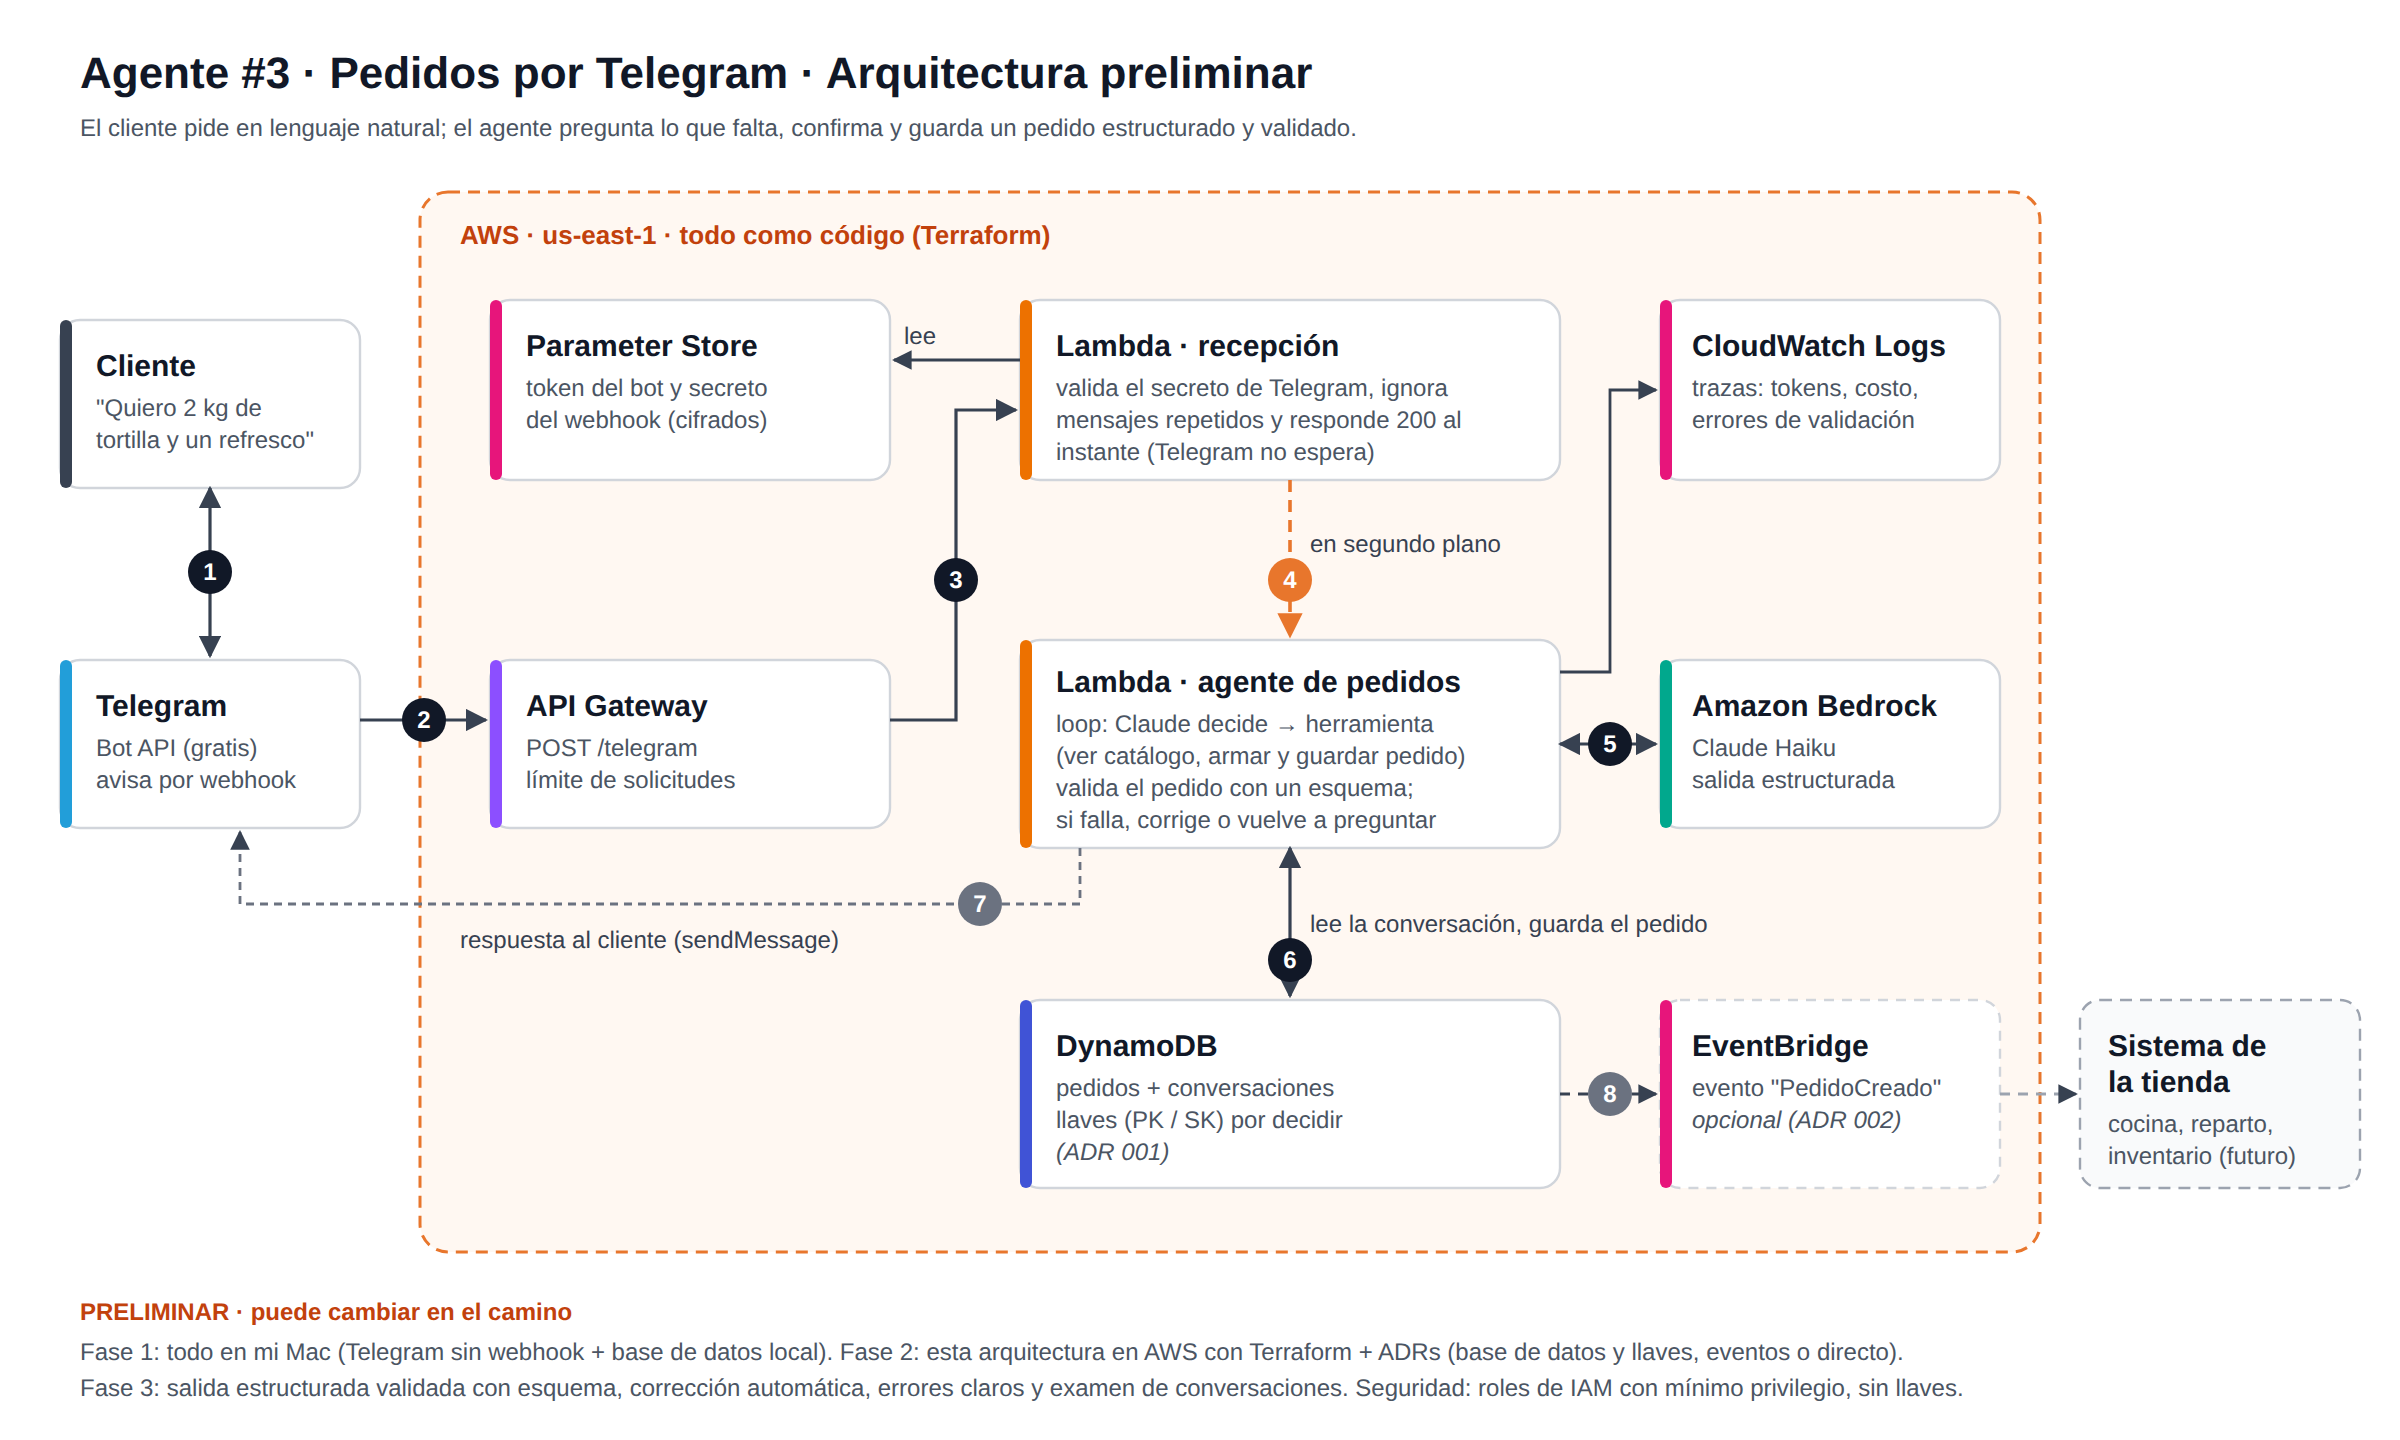
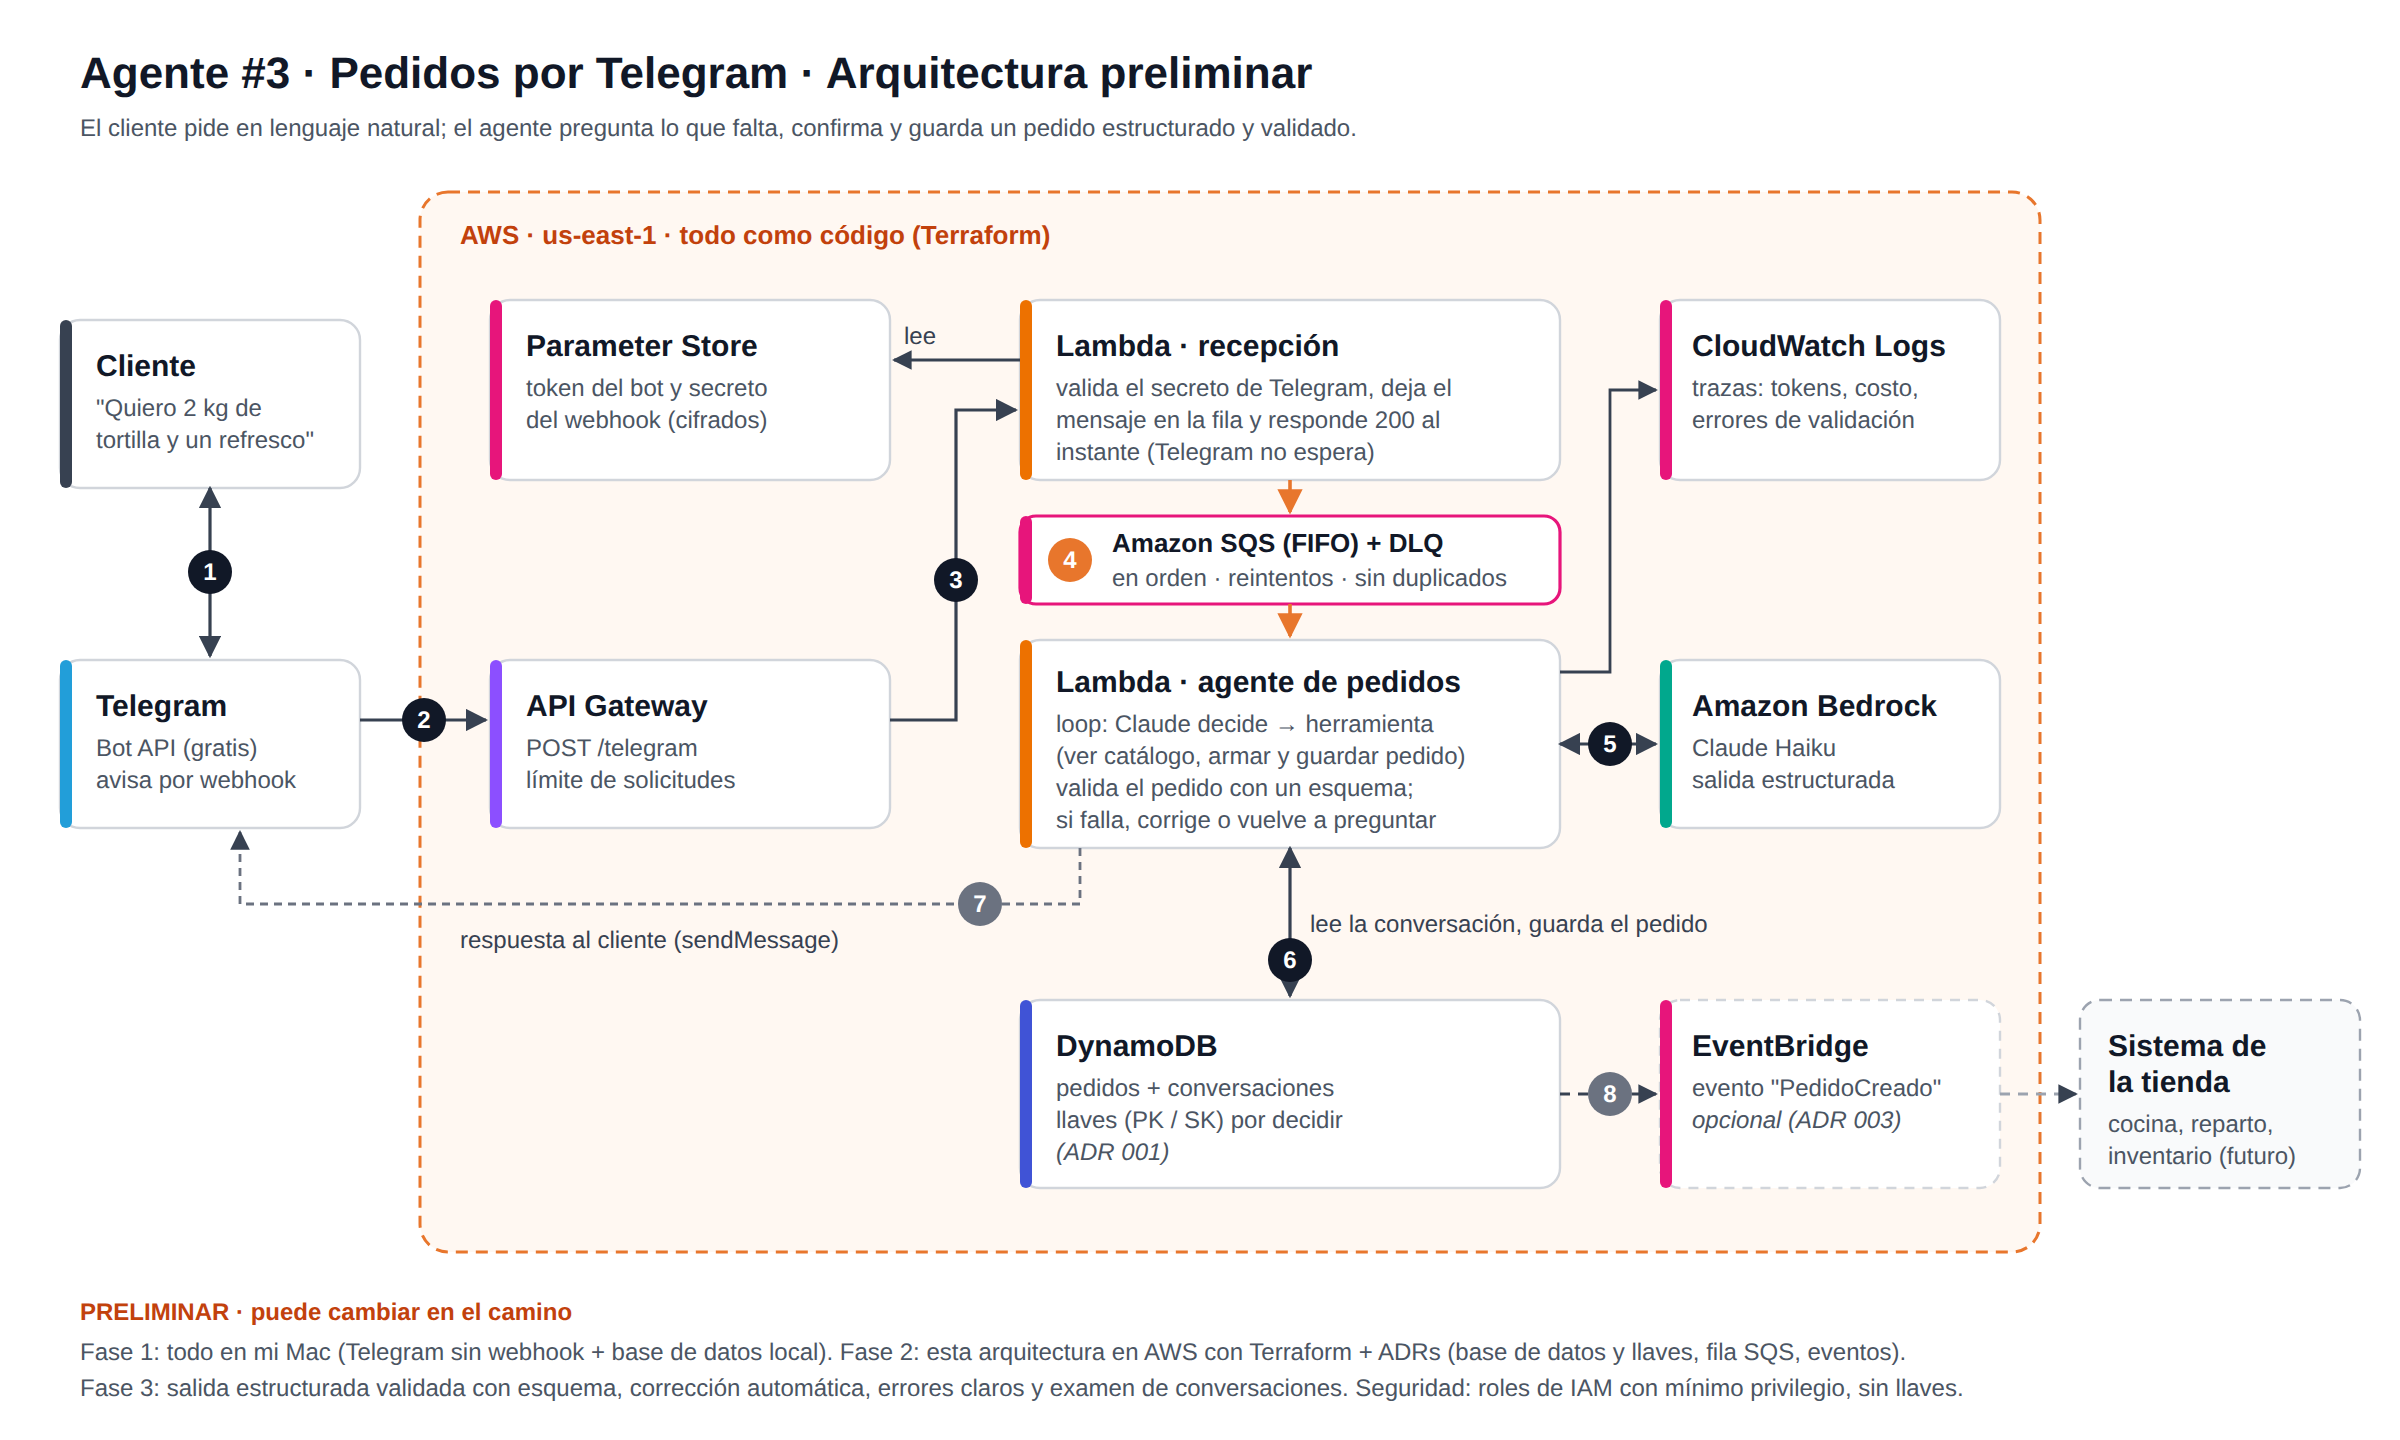
Agregar SQS FIFO + DLQ a la arquitectura preliminar.

Changed region(s): [[0.4062, 0.3438, 0.625, 0.4375], [0.4688, 0.25, 0.625, 0.3125], [0.7188, 0.9375, 0.7812, 0.9688]]

diff --git a/docs/estimacion-tiempo-y-costo.md b/docs/estimacion-tiempo-y-costo.md
@@ -7,9 +7,9 @@
 | Fase | Sesiones | Qué incluye |
 |---|---|---|
 | **1. Local (mi Mac)** | 5 | Crear el bot y guardar su token de forma segura · loop del agente con un catálogo ficticio · memoria de la conversación y confirmación del pedido · guardar en una base de datos local · primer examen de conversaciones |
-| **2. AWS con Terraform** | 7 | Terraform sin llaves · ADR 001: base de datos y sus llaves (PK/SK) · base de datos y secretos · Lambdas con permisos mínimos · API Gateway + webhook seguro de Telegram · procesamiento en segundo plano y mensajes repetidos · ADR 002: eventos o directo |
+| **2. AWS con Terraform** | 7.5 | Terraform sin llaves · ADR 001: base de datos y sus llaves (PK/SK) · base de datos y secretos · Lambdas con permisos mínimos · API Gateway + webhook seguro de Telegram · ADR 002: fila SQS FIFO + DLQ (orden, reintentos, sin duplicados) · ADR 003: eventos o directo |
 | **3. Lista para producción** | 4 | Esquema del pedido y validación · corrección automática y errores claros · examen de 20–30 conversaciones · README, diagrama final y bitácora |
-| **Total** | **~16** | ~16–20 horas |
+| **Total** | **~16.5** | ~17–20 horas |
 
 ## Costo durante el desarrollo: ~5–10 USD
 
@@ -20,6 +20,7 @@
 | DynamoDB (bajo demanda) | Centavos |
 | Lambda y API Gateway | Dentro de la capa gratuita o centavos |
 | Parameter Store (estándar) | Gratis |
+| SQS (FIFO + DLQ) | Gratis (primer millón de mensajes al mes) |
 | EventBridge (si se usa) | Centavos |
 | CloudWatch Logs | Centavos |
 
@@ -34,5 +35,5 @@ Con **1,000 pedidos al mes**: ~20–50 USD en Claude más centavos de lo demás.
 | Fase | Sesiones estimadas | Sesiones reales | Costo real |
 |---|---|---|---|
 | 1 | 5 | | |
-| 2 | 7 | | |
+| 2 | 7.5 | | |
 | 3 | 4 | | |

diff --git a/README.md b/README.md
@@ -13,7 +13,7 @@ Agente de IA que conversa con clientes por **Telegram**, entiende pedidos escrit
 ## Fases del proyecto
 
 - [ ] **Fase 1:** Loop del agente y la conversación, todo en mi Mac
-- [ ] **Fase 2:** En AWS con **Terraform**: webhook de Telegram, Lambdas, base de datos, secretos (con ADRs de las decisiones)
+- [ ] **Fase 2:** En AWS con **Terraform**: webhook de Telegram, Lambdas, fila **SQS FIFO** con DLQ, base de datos y secretos (con ADRs de las decisiones)
 - [ ] **Fase 3:** Salida estructurada validada con esquema, corrección automática, errores claros y examen de conversaciones
 
 ## Arquitectura (preliminar)
@@ -26,6 +26,7 @@ Agente de IA que conversa con clientes por **Telegram**, entiende pedidos escrit
 - **Validación con esquema:** qué pasa cuando los datos están mal, cómo se corrigen y cómo se reporta el error.
 - **Modelado de datos:** qué base de datos elegir y cómo diseñar sus llaves, documentado en un ADR.
 - **Integración:** webhook seguro de Telegram, secretos cifrados y, opcionalmente, eventos para otros sistemas.
+- **Mensajes que no se pierden:** una fila **SQS FIFO** entre la recepción y el agente mantiene el orden de cada conversación, reintenta si algo falla, ignora duplicados y manda a una fila de mensajes muertos (DLQ) lo que falla varias veces.
 - **Infraestructura como código** con Terraform.
 
 ## Proyectos anteriores
